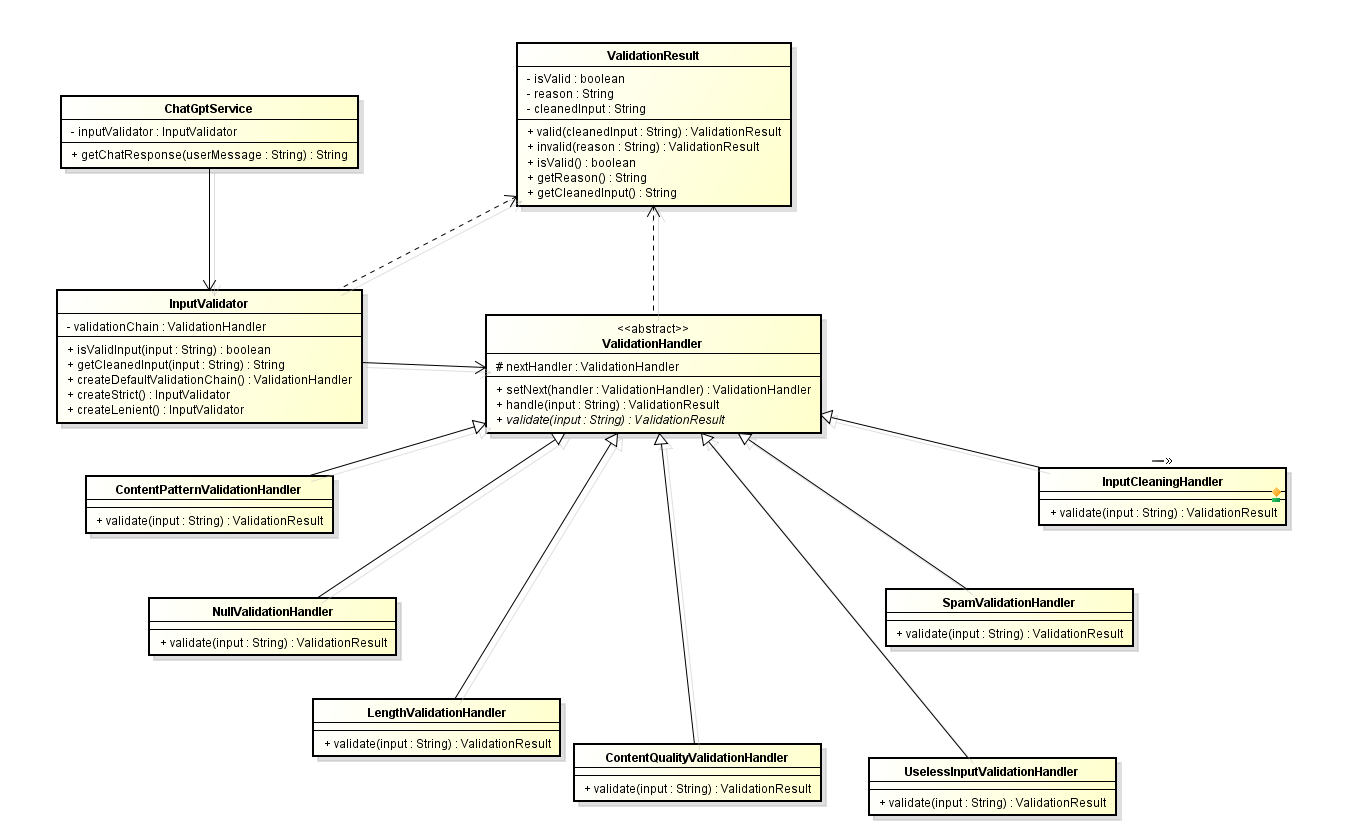
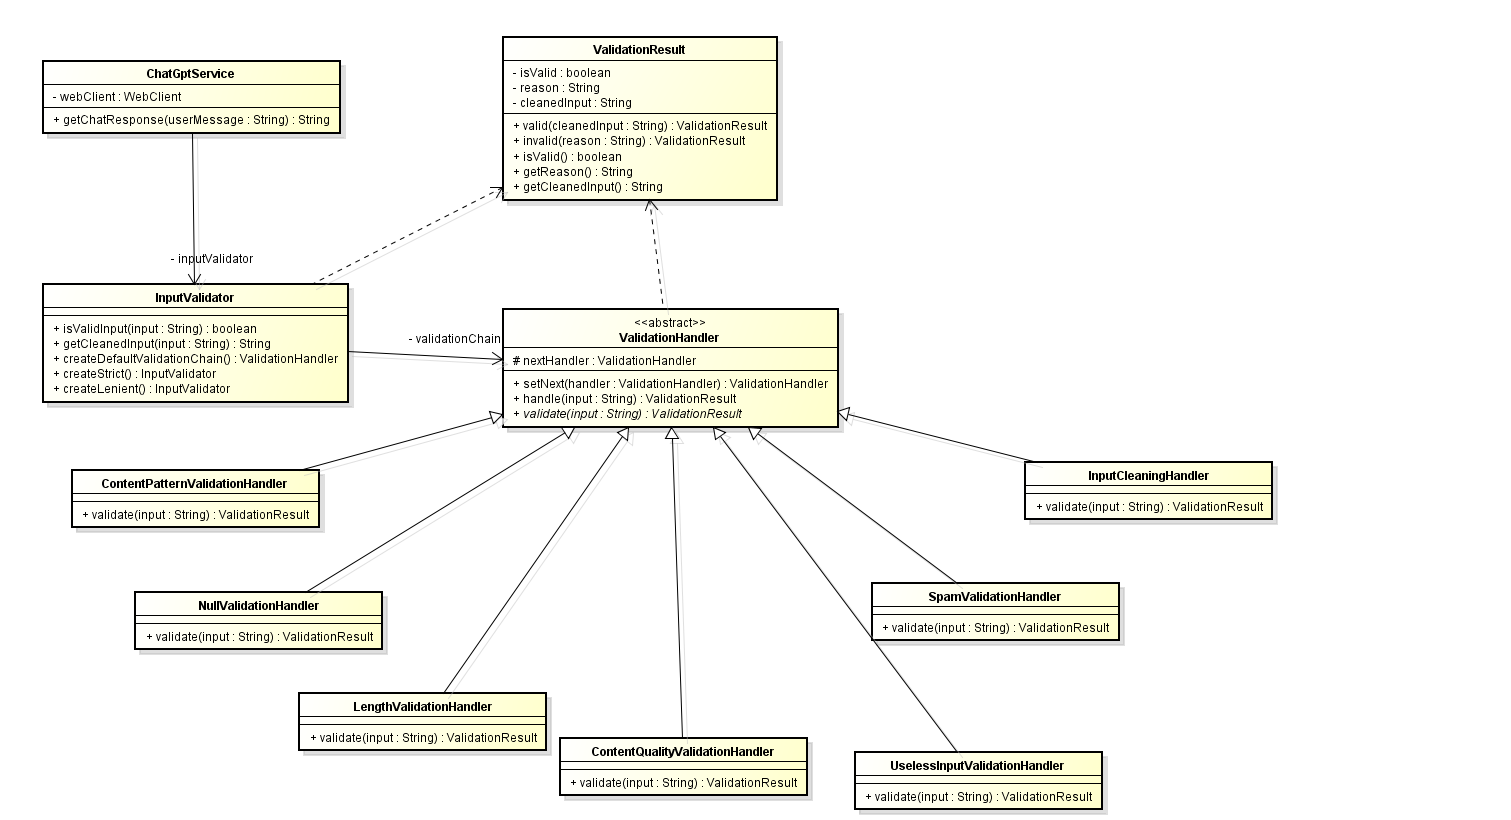
design

diff --git a/src/main/java/com/example/demo/service/ChatGptService.java b/src/main/java/com/example/demo/service/ChatGptService.java
@@ -25,27 +25,6 @@ public class ChatGptService {
                 .build();
     }
 
-    public Mono<String> getChatResponse(String userMessage) {
-        Map<String, Object> requestBody = Map.of(
-                "model", "gpt-3.5-turbo",
-                "messages", List.of(
-                        Map.of("role", "system", "content", "Eres un asistente útil."),
-                        Map.of("role", "user", "content", userMessage)
-                )
-        );
-
-        return webClient.post()
-                .uri("/chat/completions")
-                .bodyValue(requestBody)
-                .header("Authorization", "Bearer " + apiKey)
-                .retrieve()
-                .bodyToMono(Map.class)
-                .map(response -> {
-                    List<Map<String, Object>> choices = (List<Map<String, Object>>) response.get("choices");
-                    Map<String, Object> message = (Map<String, Object>) choices.get(0).get("message");
-                    return (String) message.get("content");
-                });
-    }
 
     public Mono<String> getChatResponseEnhanced(String userMessage) {
         ValidationResult result = inputValidator.validateInput(userMessage);

diff --git a/src/main/java/com/example/demo/controller/ChatGptController.java b/src/main/java/com/example/demo/controller/ChatGptController.java
@@ -16,11 +16,6 @@ public class ChatGptController {
         this.chatGptService = chatGptService;
     }
 
-    @GetMapping("/ask")
-    public String ask(@RequestParam String question) {
-        return chatGptService.getChatResponse(question).block();
-    }
-
     @GetMapping("/enhanced/ask")
     public String askEnhanced(@RequestParam String question) {
         return chatGptService.getChatResponseEnhanced(question).block();

diff --git a/README.md b/README.md
@@ -16,10 +16,9 @@ You will need the following installed:
 - An ChatGpt Api Key for this create a .env file and create a variable called API_KEY and paste the key
 
 ### API REST
-There are two endpoints in this project.
+There is one endpoint in this project.
 
-* /api/ask?question=<question> this is an ednpoint to ask to ChatGpt without input validation.
-* /api/enhanced/ask?question=<question> this is an ednpoint to ask to ChatGpt with input validation.
+* /api/enhanced/ask?question=<question> this is an endpoint to ask to ChatGpt with input validation.
 
 #### Deployed App
 https://chatgptservice-gpbzgkd7anadbhee.westus-01.azurewebsites.net/
@@ -51,6 +50,45 @@ if (result.isValid()) {
 } else {
     System.out.println("Invalid: " + result.getReason());
 }
+```
+
+## Chain of Responsibility Pattern in the Input Validator Code
+
+This code implements the **Chain of Responsibility** design pattern to create a modular and extensible input validation system.
+
+### 🔗 What is Chain of Responsibility?
+
+The Chain of Responsibility pattern allows an input to be passed through a sequence of handlers, where each handler performs a specific check or processing step. Each handler can decide to:
+- Pass the input to the **next handler** in the chain, or
+- **Stop** the chain and return a validation error.
+
+### 🧱 How It's Used in the Code
+
+- Each validation rule is implemented as a subclass of the abstract `ValidationHandler`.
+- Handlers are linked using the `setNext()` method to form a chain.
+- The `handle()` method processes the input step-by-step through this chain.
+
+### 🛠 Benefits of This Approach
+
+- **Modularity**: Each validation is isolated in its own class.
+- **Flexibility**: You can easily add, remove, or reorder validation steps.
+- **Reusability**: Different chains can be created for different use cases (e.g., strict, lenient, custom).
+- **Maintainability**: New rules can be added without changing the core logic.
+
+### ✅ Example
+
+A typical validation chain might look like:
+
+```
+nullHandler
+    .setNext(cleaningHandler)
+    .setNext(lengthHandler)
+    .setNext(contentHandler)
+    .setNext(spamHandler)
+    .setNext(uselessHandler)
+    .setNext(qualityHandler)
+    .setNext(tokenHandler);
+
 ```
 
 ## Design
